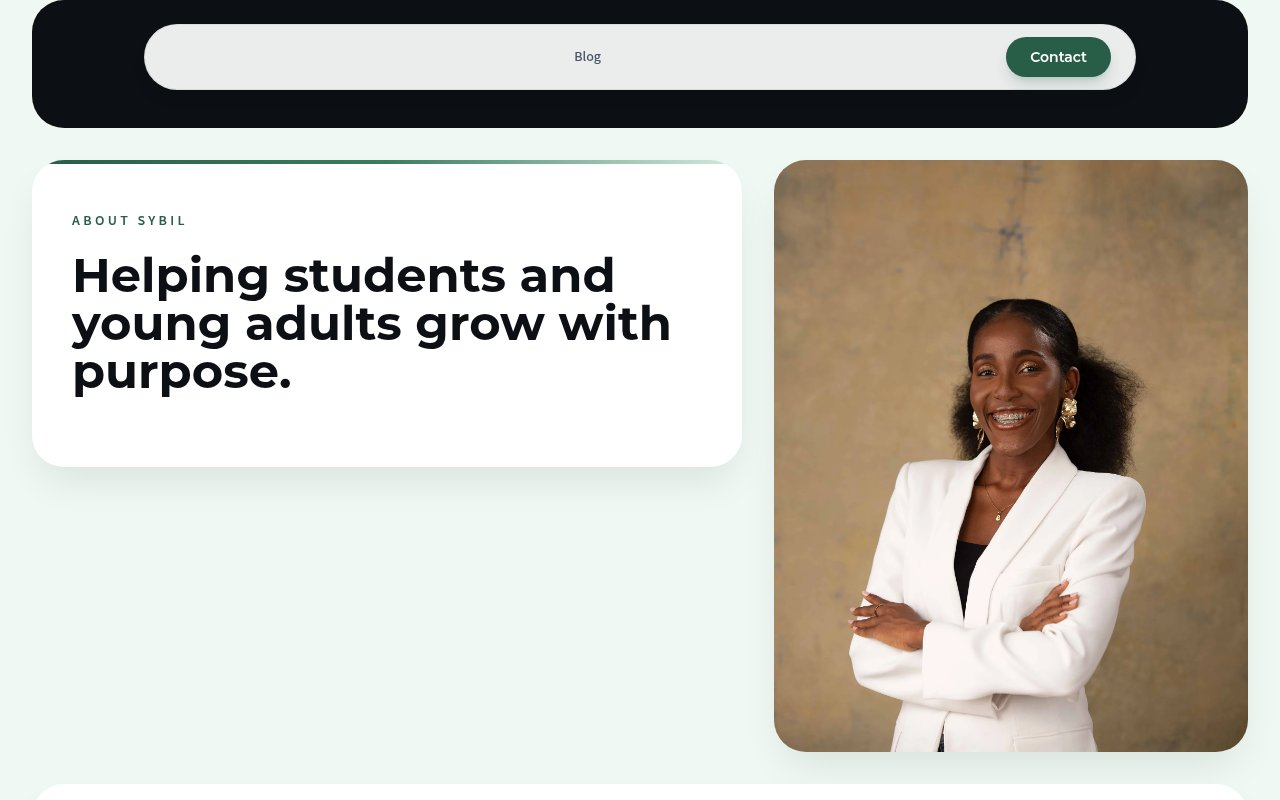
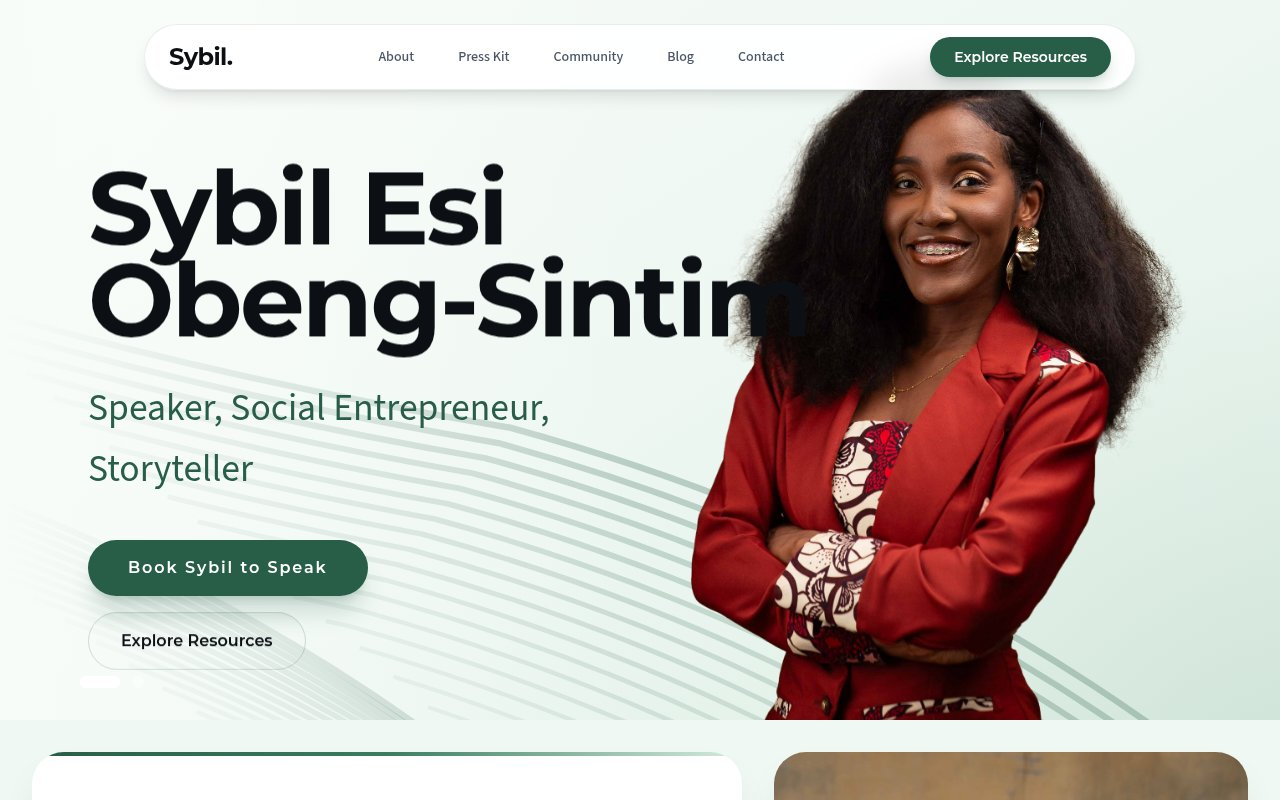
Show full website screenshots on case studies, swap hero to SMN, recapture Sybilesi homepage

diff --git a/app/portfolio/PortfolioClientPage.tsx b/app/portfolio/PortfolioClientPage.tsx
@@ -73,21 +73,24 @@ export default function PortfolioPage() {
     setSelectedProject(filteredProjects[newIndex])
   }
 
+  const WEBSITE_CATEGORIES = new Set(["Web Design", "Web App Development", "Marketing Consultation"])
   const CONTAIN_FIT_IDS = new Set(["victory-foods-social", "richkev-social", "sweat-to-gain-social"])
 
   const projectImage = (src?: string) => src || "/placeholder.jpg"
 
-  const getImageFitClass = (projectId: string) =>
-    CONTAIN_FIT_IDS.has(projectId) ? "object-contain p-3 sm:p-5" : "object-cover"
+  const getImageFitClass = (project: { id: string; category: string }) => {
+    if (WEBSITE_CATEGORIES.has(project.category)) return "object-contain object-top"
+    if (CONTAIN_FIT_IDS.has(project.id)) return "object-contain p-3 sm:p-5"
+    return "object-cover"
+  }
 
-  const getImageFrameClass = (projectId: string, context: "list" | "modal") =>
-    CONTAIN_FIT_IDS.has(projectId)
-      ? context === "list"
-        ? "aspect-square lg:aspect-[4/3]"
-        : "aspect-square lg:aspect-[16/10]"
-      : context === "list"
-        ? "aspect-[5/4]"
-        : "aspect-[4/3]"
+  const getImageFrameClass = (project: { id: string; category: string }, context: "list" | "modal") => {
+    if (WEBSITE_CATEGORIES.has(project.category)) return "aspect-[16/10] bg-muted"
+    if (CONTAIN_FIT_IDS.has(project.id)) {
+      return context === "list" ? "aspect-square lg:aspect-[4/3]" : "aspect-square lg:aspect-[16/10]"
+    }
+    return context === "list" ? "aspect-[5/4]" : "aspect-[4/3]"
+  }
 
   return (
     <>
@@ -159,7 +162,7 @@ export default function PortfolioPage() {
                     >
                       <ImageReveal
                         className={`relative border border-border bg-card ${getImageFrameClass(
-                          project.id,
+                          project,
                           "list",
                         )}`}
                       >
@@ -168,7 +171,7 @@ export default function PortfolioPage() {
                           alt={project.title}
                           fill
                           sizes="(min-width: 1024px) 50vw, 100vw"
-                          className={`retro-image ${getImageFitClass(project.id)}`}
+                          className={`retro-image ${getImageFitClass(project)}`}
                         />
                         <div className="absolute left-4 top-4 z-10 border border-border bg-background px-3 py-1 font-mono text-xs uppercase tracking-[0.18em] text-foreground">
                           {project.category}
@@ -270,7 +273,7 @@ export default function PortfolioPage() {
               >
                 <div
                   className={`relative overflow-hidden border border-border bg-background ${getImageFrameClass(
-                    selectedProject.id,
+                    selectedProject,
                     "modal",
                   )}`}
                 >
@@ -279,7 +282,7 @@ export default function PortfolioPage() {
                     alt={selectedProject.title}
                     fill
                     sizes="(min-width: 1024px) 50vw, 100vw"
-                    className={getImageFitClass(selectedProject.id)}
+                    className={getImageFitClass(selectedProject)}
                   />
                 </div>
 

diff --git a/components/hero/interactive-hero.tsx b/components/hero/interactive-hero.tsx
@@ -12,8 +12,8 @@ import { cn } from "@/lib/utils"
 /** Recent client work. B&W floaters on the right, shifted toward the headline. */
 const FLOATERS = [
   {
-    src: "/case-writidian.jpg",
-    alt: "Writidian web app",
+    src: "/case-smn.jpg",
+    alt: "Social Marketers Network web app",
     label: "Web App",
     className: "left-[54%] top-[14%] w-[min(200px,22vw)] xl:left-[56%] xl:w-[220px]",
     depth: 36,
